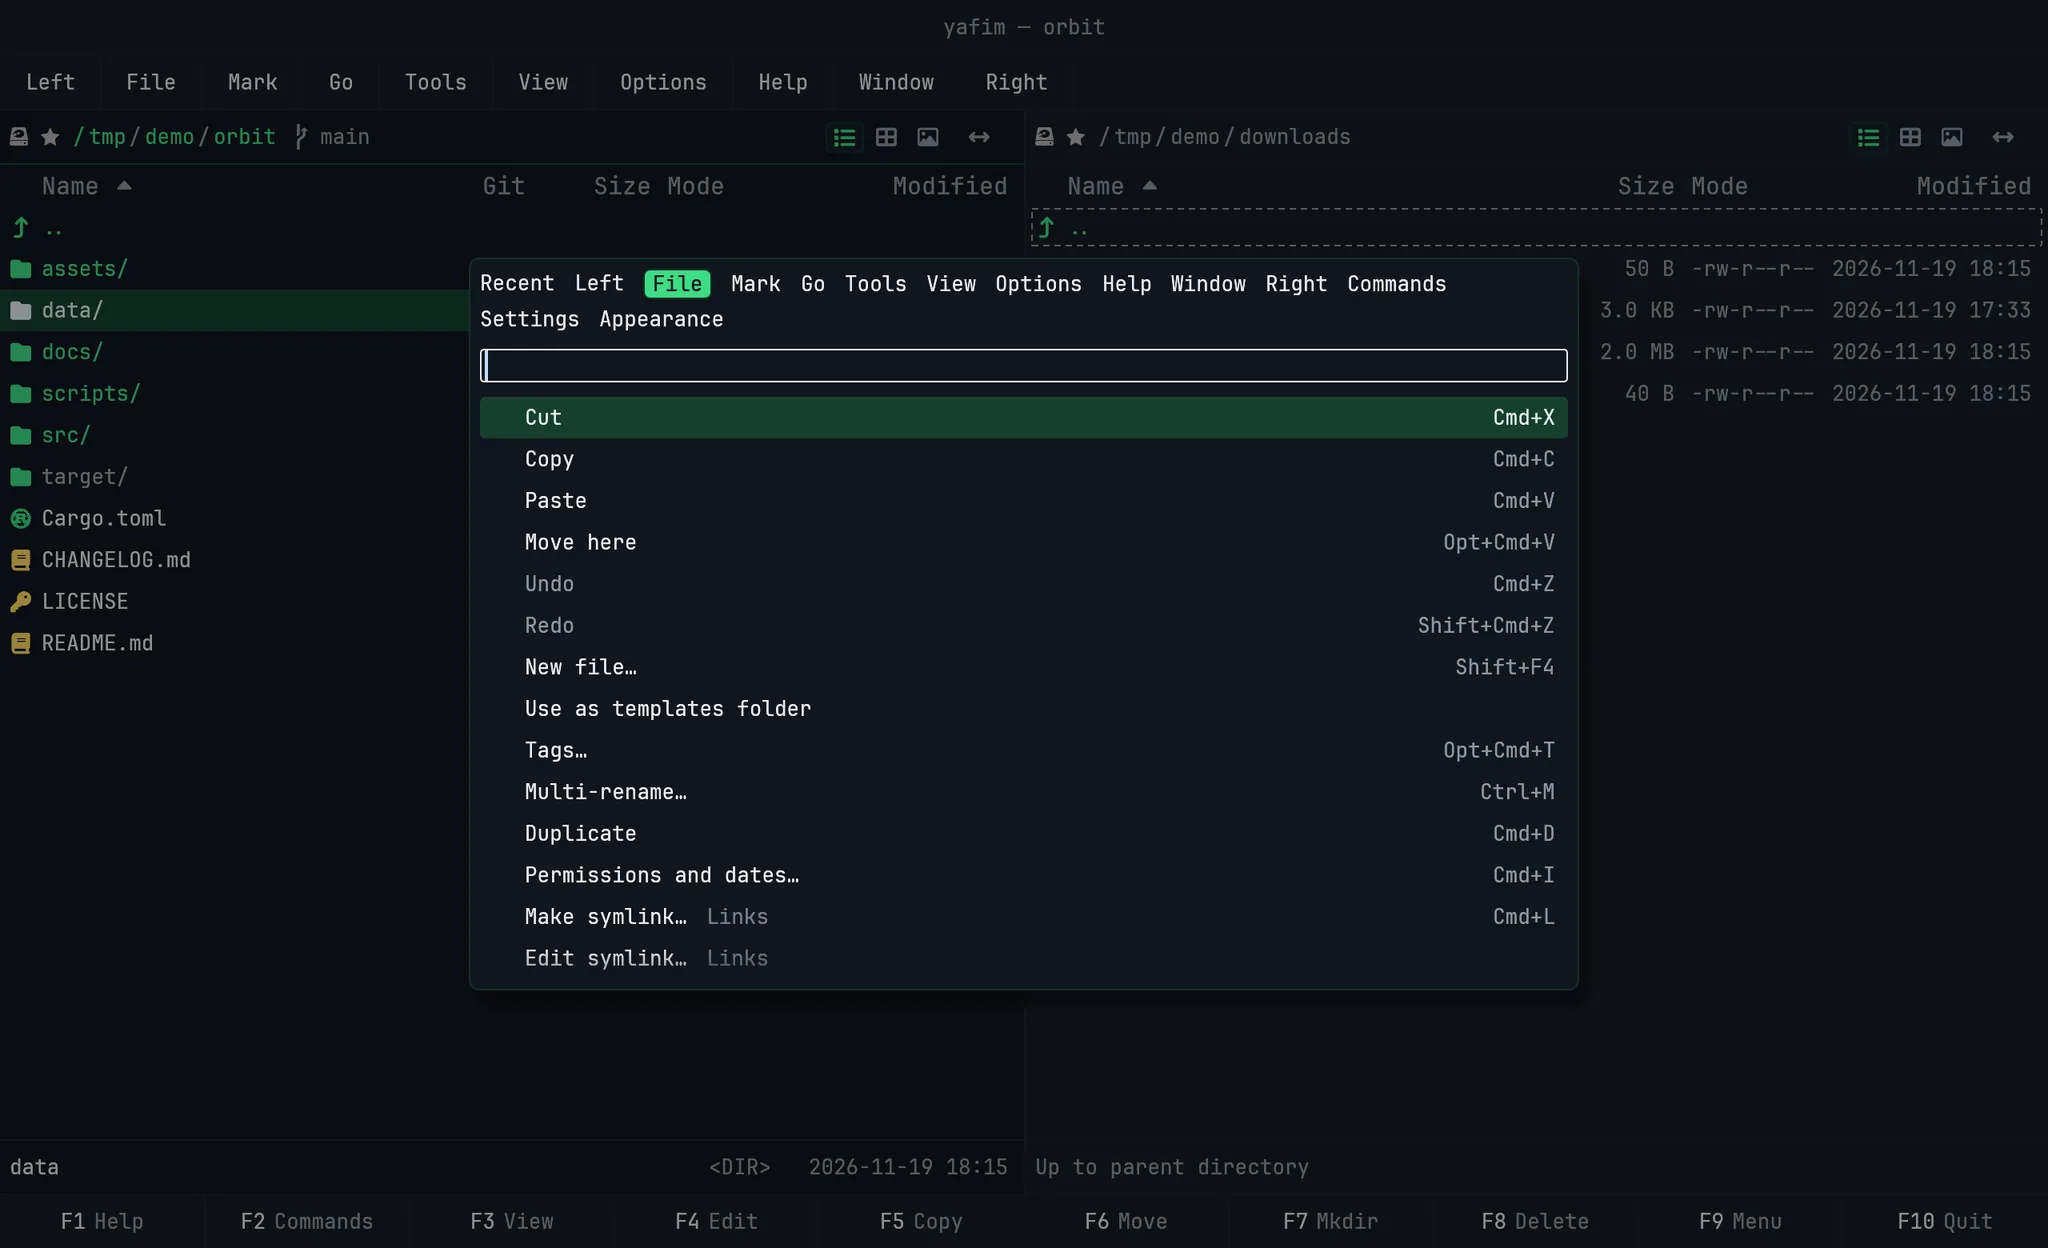
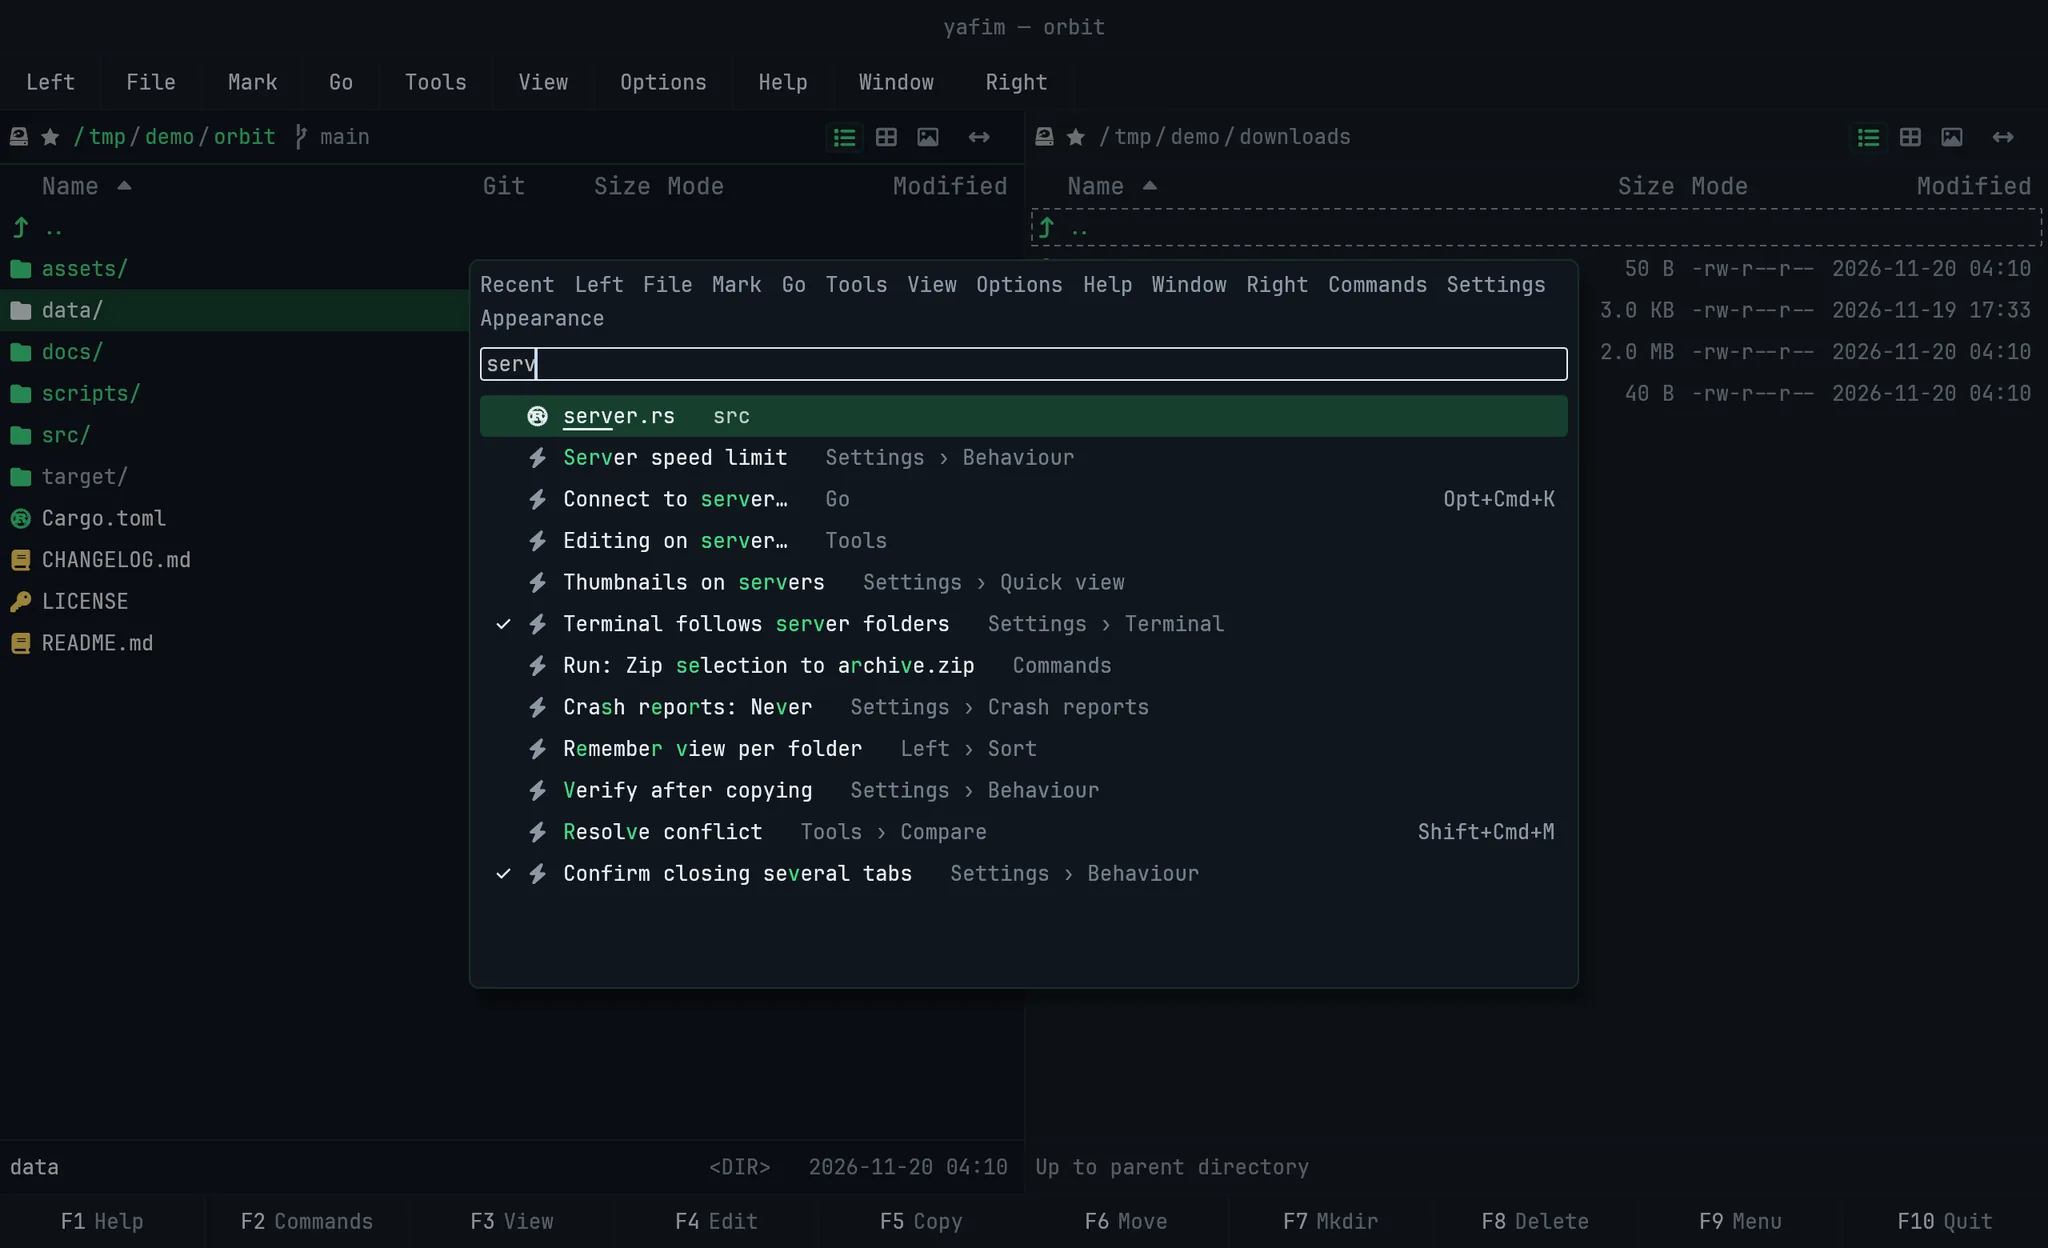
The site: the search box on ⌘K, Connect on ⌥⌘K, the palette picture retaken

diff --git a/index.html b/index.html
@@ -507,7 +507,7 @@
       </div>
     </div>
     <div class="glass small">
-      <div class="g-op"><b>Go to folder</b> ⌘J <span style="color:var(--faint)">orb</span>
+      <div class="g-op"><b>Search</b> ⌘K <span style="color:var(--faint)">orb</span>
         <div style="margin-top:6px;color:var(--text)">~/projects/orbit</div>
         <div>~/work/orbit-ground</div>
       </div>
@@ -553,8 +553,8 @@
       <div>
         <h3>Git-aware panels and tabs</h3>
         <p>Turn on the Git column and every row shows whether it is modified, staged, new or ignored, with the branch and how far it is from upstream in the path bar. Stage, commit, pull and push without leaving the panels. Tabs keep several folders in each panel.</p>
-        <ul><li>Tools › Git: stage (⌘⌥A), commit with recent messages (⌘⌥C), pull, push, fetch; remotes and worktrees</li><li>Resolve merge conflicts three-way: Local, Result, Remote (⌘⇧M)</li><li>Tabs per panel, locked tabs, middle-click to open</li><li>A folder tree (⌘⇧K) and Go to folder: a few letters find the folders you use (⌘J)</li></ul>
-        <p class="keys"><kbd>⌘T</kbd> new tab <kbd>⌘J</kbd> go to folder <kbd>⌘⇧M</kbd> resolve</p>
+        <ul><li>Tools › Git: stage (⌘⌥A), commit with recent messages (⌘⌥C), pull, push, fetch; remotes and worktrees</li><li>Resolve merge conflicts three-way: Local, Result, Remote (⌘⇧M)</li><li>Tabs per panel, locked tabs, middle-click to open</li><li>A folder tree (⌘⇧K) and the search box: a few letters find the folders you use (⌘K)</li></ul>
+        <p class="keys"><kbd>⌘T</kbd> new tab <kbd>⌘K</kbd> search <kbd>⌘⇧M</kbd> resolve</p>
       </div>
     </div>
 
@@ -569,12 +569,12 @@
     </div>
 
     <div class="show-row flip">
-      <figure><a href="img/palette.webp"><img src="img/palette.webp" width="2048" height="1248" loading="lazy" alt="The command palette opened over the panels, on its File tab: New window, Close window, Cut, Copy, Paste, Move here, Multi-rename, Duplicate and more, each with its key."></a></figure>
+      <figure><a href="img/palette.webp"><img src="img/palette.webp" width="2048" height="1248" loading="lazy" alt="The search box opened over the panels with serv typed: the file server.rs in src first, then commands and settings — Server speed limit, Connect to server… with its key ⌥⌘K, Editing on server…, Thumbnails on servers — each row with its icon and its place."></a></figure>
       <div>
         <h3>F9 is the command palette</h3>
-        <p>Every command in one searchable list, in tabs that mirror the menus — plus Recent and Settings. Type a few letters to run anything, or walk the tabs with ← → to discover what yafim can do.</p>
-        <ul><li>Recent commands first, remembered between launches</li><li>Settings rows right in the results</li><li>The key for each command shown beside it</li></ul>
-        <p class="keys"><kbd>⌘⇧O</kbd> palette <kbd>F9</kbd> on this panel's tab <kbd>←</kbd><kbd>→</kbd> tabs</p>
+        <p>One search box for everything: the folders you use, the files below the panel's folder, your servers and every command, in one list, best first. Type a few letters to go anywhere or run anything, or open the commands in tabs that mirror the menus and walk them with ← → to discover what yafim can do.</p>
+        <ul><li>Opened, it lists the commands you ran lately, the folders you use most and your servers</li><li>&gt; keeps to the commands; a path goes on as Go to folder</li><li>Settings rows right in the results, and each command's key beside it</li></ul>
+        <p class="keys"><kbd>⌘K</kbd> search <kbd>F9</kbd> commands in tabs <kbd>←</kbd><kbd>→</kbd> tabs</p>
       </div>
     </div>
 
@@ -691,9 +691,9 @@
       </div>
       <div class="fcard">
         <span class="icon"><svg viewBox="0 0 24 24" fill="none" stroke="currentColor" stroke-width="2" stroke-linecap="round" stroke-linejoin="round" aria-hidden="true"><circle cx="11" cy="11" r="7"/><line x1="21" y1="21" x2="16.65" y2="16.65"/></svg></span>
-        <h3>Go to file, type to filter</h3>
-        <p>A fuzzy finder over everything below the panel's folder (thv finds theme_view.rs), Go to folder with completion, and letters that filter the panel as you type.</p>
-        <p class="keys"><kbd>⌘P</kbd> go to file <kbd>⌘⇧G</kbd> go to folder</p>
+        <h3>Go to folder, type to filter</h3>
+        <p>Go to folder with completion, the files below the panel's folder by a few letters in the search box (thv finds theme_view.rs), and letters that filter the panel as you type.</p>
+        <p class="keys"><kbd>⌘⇧G</kbd> go to folder <kbd>⌘K</kbd> search</p>
       </div>
       <div class="fcard">
         <span class="icon"><svg viewBox="0 0 24 24" fill="none" stroke="currentColor" stroke-width="2" stroke-linecap="round" stroke-linejoin="round" aria-hidden="true"><polyline points="1 4 1 10 7 10"/><path d="M3.5 15a9 9 0 1 0 2.1-9.4L1 10"/></svg></span>
@@ -811,7 +811,7 @@
         <span class="icon"><svg viewBox="0 0 24 24" fill="none" stroke="currentColor" stroke-width="2" stroke-linecap="round" stroke-linejoin="round" aria-hidden="true"><rect x="2" y="3" width="20" height="7" rx="1.5"/><rect x="2" y="14" width="20" height="7" rx="1.5"/><line x1="6" y1="6.5" x2="6.01" y2="6.5"/><line x1="6" y1="17.5" x2="6.01" y2="17.5"/></svg></span>
         <h3>Servers and cloud drives</h3>
         <p>One panel on a server, the other on your machine, and everything works across: view, edit, copy and move both ways, permissions, find, archives. yafim runs your own <code>ssh</code>, so <code>~/.ssh/config</code>, keys, the agent and ProxyJump just work. FTP and FTPS servers, network shares, WebDAV, S3 buckets and every cloud drive rclone knows — Google Drive, OneDrive, Dropbox and more — open the same way, with share links one click away. Save a server with its password in the system's keychain, and edit a server file in your own editor — each save goes back up.</p>
-        <p class="keys"><kbd>⌘K</kbd> connect <kbd>⌥⇧F4</kbd> edit in your editor</p>
+        <p class="keys"><kbd>⌥⌘K</kbd> connect <kbd>⌥⇧F4</kbd> edit in your editor</p>
       </div>
       <div class="fcard">
         <span class="icon"><svg viewBox="0 0 24 24" fill="none" stroke="currentColor" stroke-width="2" stroke-linecap="round" stroke-linejoin="round" aria-hidden="true"><rect x="2" y="6" width="20" height="12" rx="2"/><line x1="6" y1="10" x2="6.01" y2="10"/><line x1="10" y1="10" x2="10.01" y2="10"/><line x1="14" y1="10" x2="14.01" y2="10"/><line x1="18" y1="10" x2="18.01" y2="10"/><line x1="8" y1="14" x2="16" y2="14"/></svg></span>
@@ -856,7 +856,7 @@
         <div class="keyrow" role="row"><span class="desc" role="cell">Find files by name / content</span><kbd role="cell">⌘F</kbd></div>
         <div class="keyrow" role="row"><span class="desc" role="cell">Quick folders 1–9 / the list</span><kbd role="cell">Ctrl+1…9 · ⌘S</kbd></div>
         <div class="keyrow" role="row"><span class="desc" role="cell">Switch drive</span><kbd role="cell">⌘⇧S</kbd></div>
-        <div class="keyrow" role="row"><span class="desc" role="cell">Connect to a server over SSH</span><kbd role="cell">⌘K</kbd></div>
+        <div class="keyrow" role="row"><span class="desc" role="cell">Connect to a server over SSH</span><kbd role="cell">⌥⌘K</kbd></div>
         <div class="keyrow" role="row"><span class="desc" role="cell">Count size</span><kbd role="cell">⌥Space</kbd></div>
         <div class="keyrow" role="row"><span class="desc" role="cell">Back / forward / folder history</span><kbd role="cell">⌘← · ⌘→ · ⌘Y</kbd></div>
         <div class="keyrow" role="row"><span class="desc" role="cell">Select files (again: unselect)</span><kbd role="cell">⌘A</kbd></div>
@@ -866,8 +866,8 @@
         <div class="keyrow" role="row"><span class="desc" role="cell">Disk usage and cleanup</span><kbd role="cell">⌘⇧U</kbd></div>
         <div class="keyrow" role="row"><span class="desc" role="cell">Replace in files</span><kbd role="cell">⌘⌥F</kbd></div>
         <div class="keyrow" role="row"><span class="desc" role="cell">New window</span><kbd role="cell">⌘N</kbd></div>
-        <div class="keyrow" role="row"><span class="desc" role="cell">Command palette — every command, in tabs / on this panel's tab</span><kbd role="cell">⌘⇧O · F9</kbd></div>
-        <div class="keyrow" role="row"><span class="desc" role="cell">Go to folder / go to file</span><kbd role="cell">⌘J · ⌘P</kbd></div>
+        <div class="keyrow" role="row"><span class="desc" role="cell">Search — folders, files, servers, commands / commands in tabs</span><kbd role="cell">⌘K · F9</kbd></div>
+        <div class="keyrow" role="row"><span class="desc" role="cell">Go to folder by its path</span><kbd role="cell">⌘⇧G</kbd></div>
         <div class="keyrow" role="row"><span class="desc" role="cell">New tab / folder tree</span><kbd role="cell">⌘T · ⌘⇧K</kbd></div>
         <div class="keyrow" role="row"><span class="desc" role="cell">Undo a move, rename or trash</span><kbd role="cell">⌘Z</kbd></div>
         <div class="keyrow" role="row"><span class="desc" role="cell">List / thumbnails / gallery of any folder</span><kbd role="cell">⌘⌥1 · ⌘⌥2 · ⌘G</kbd></div>
